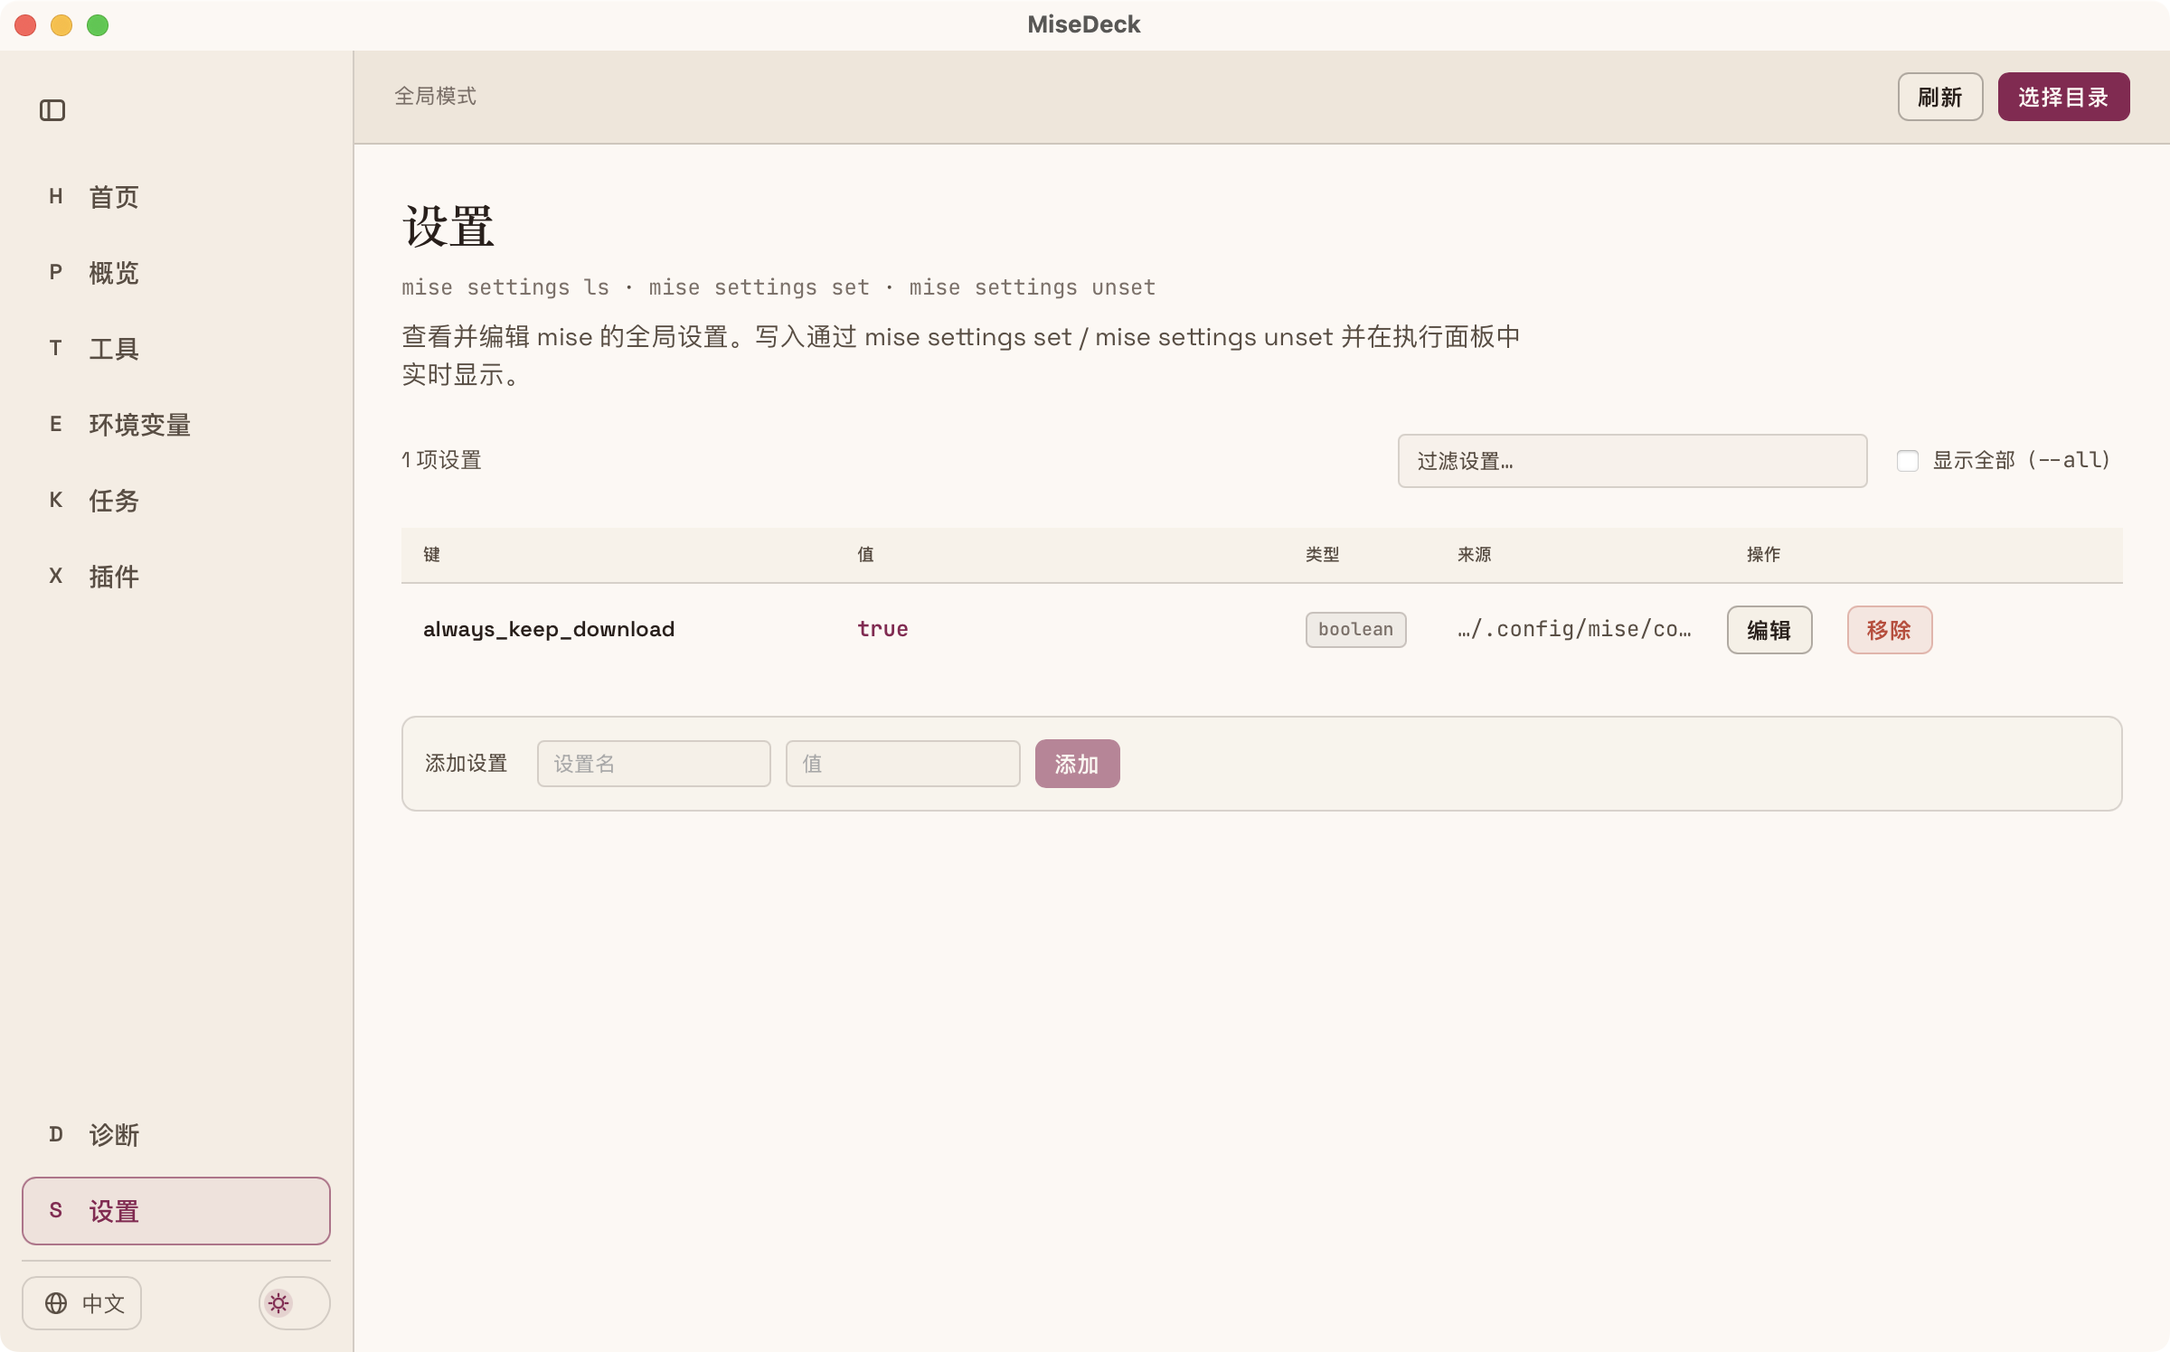
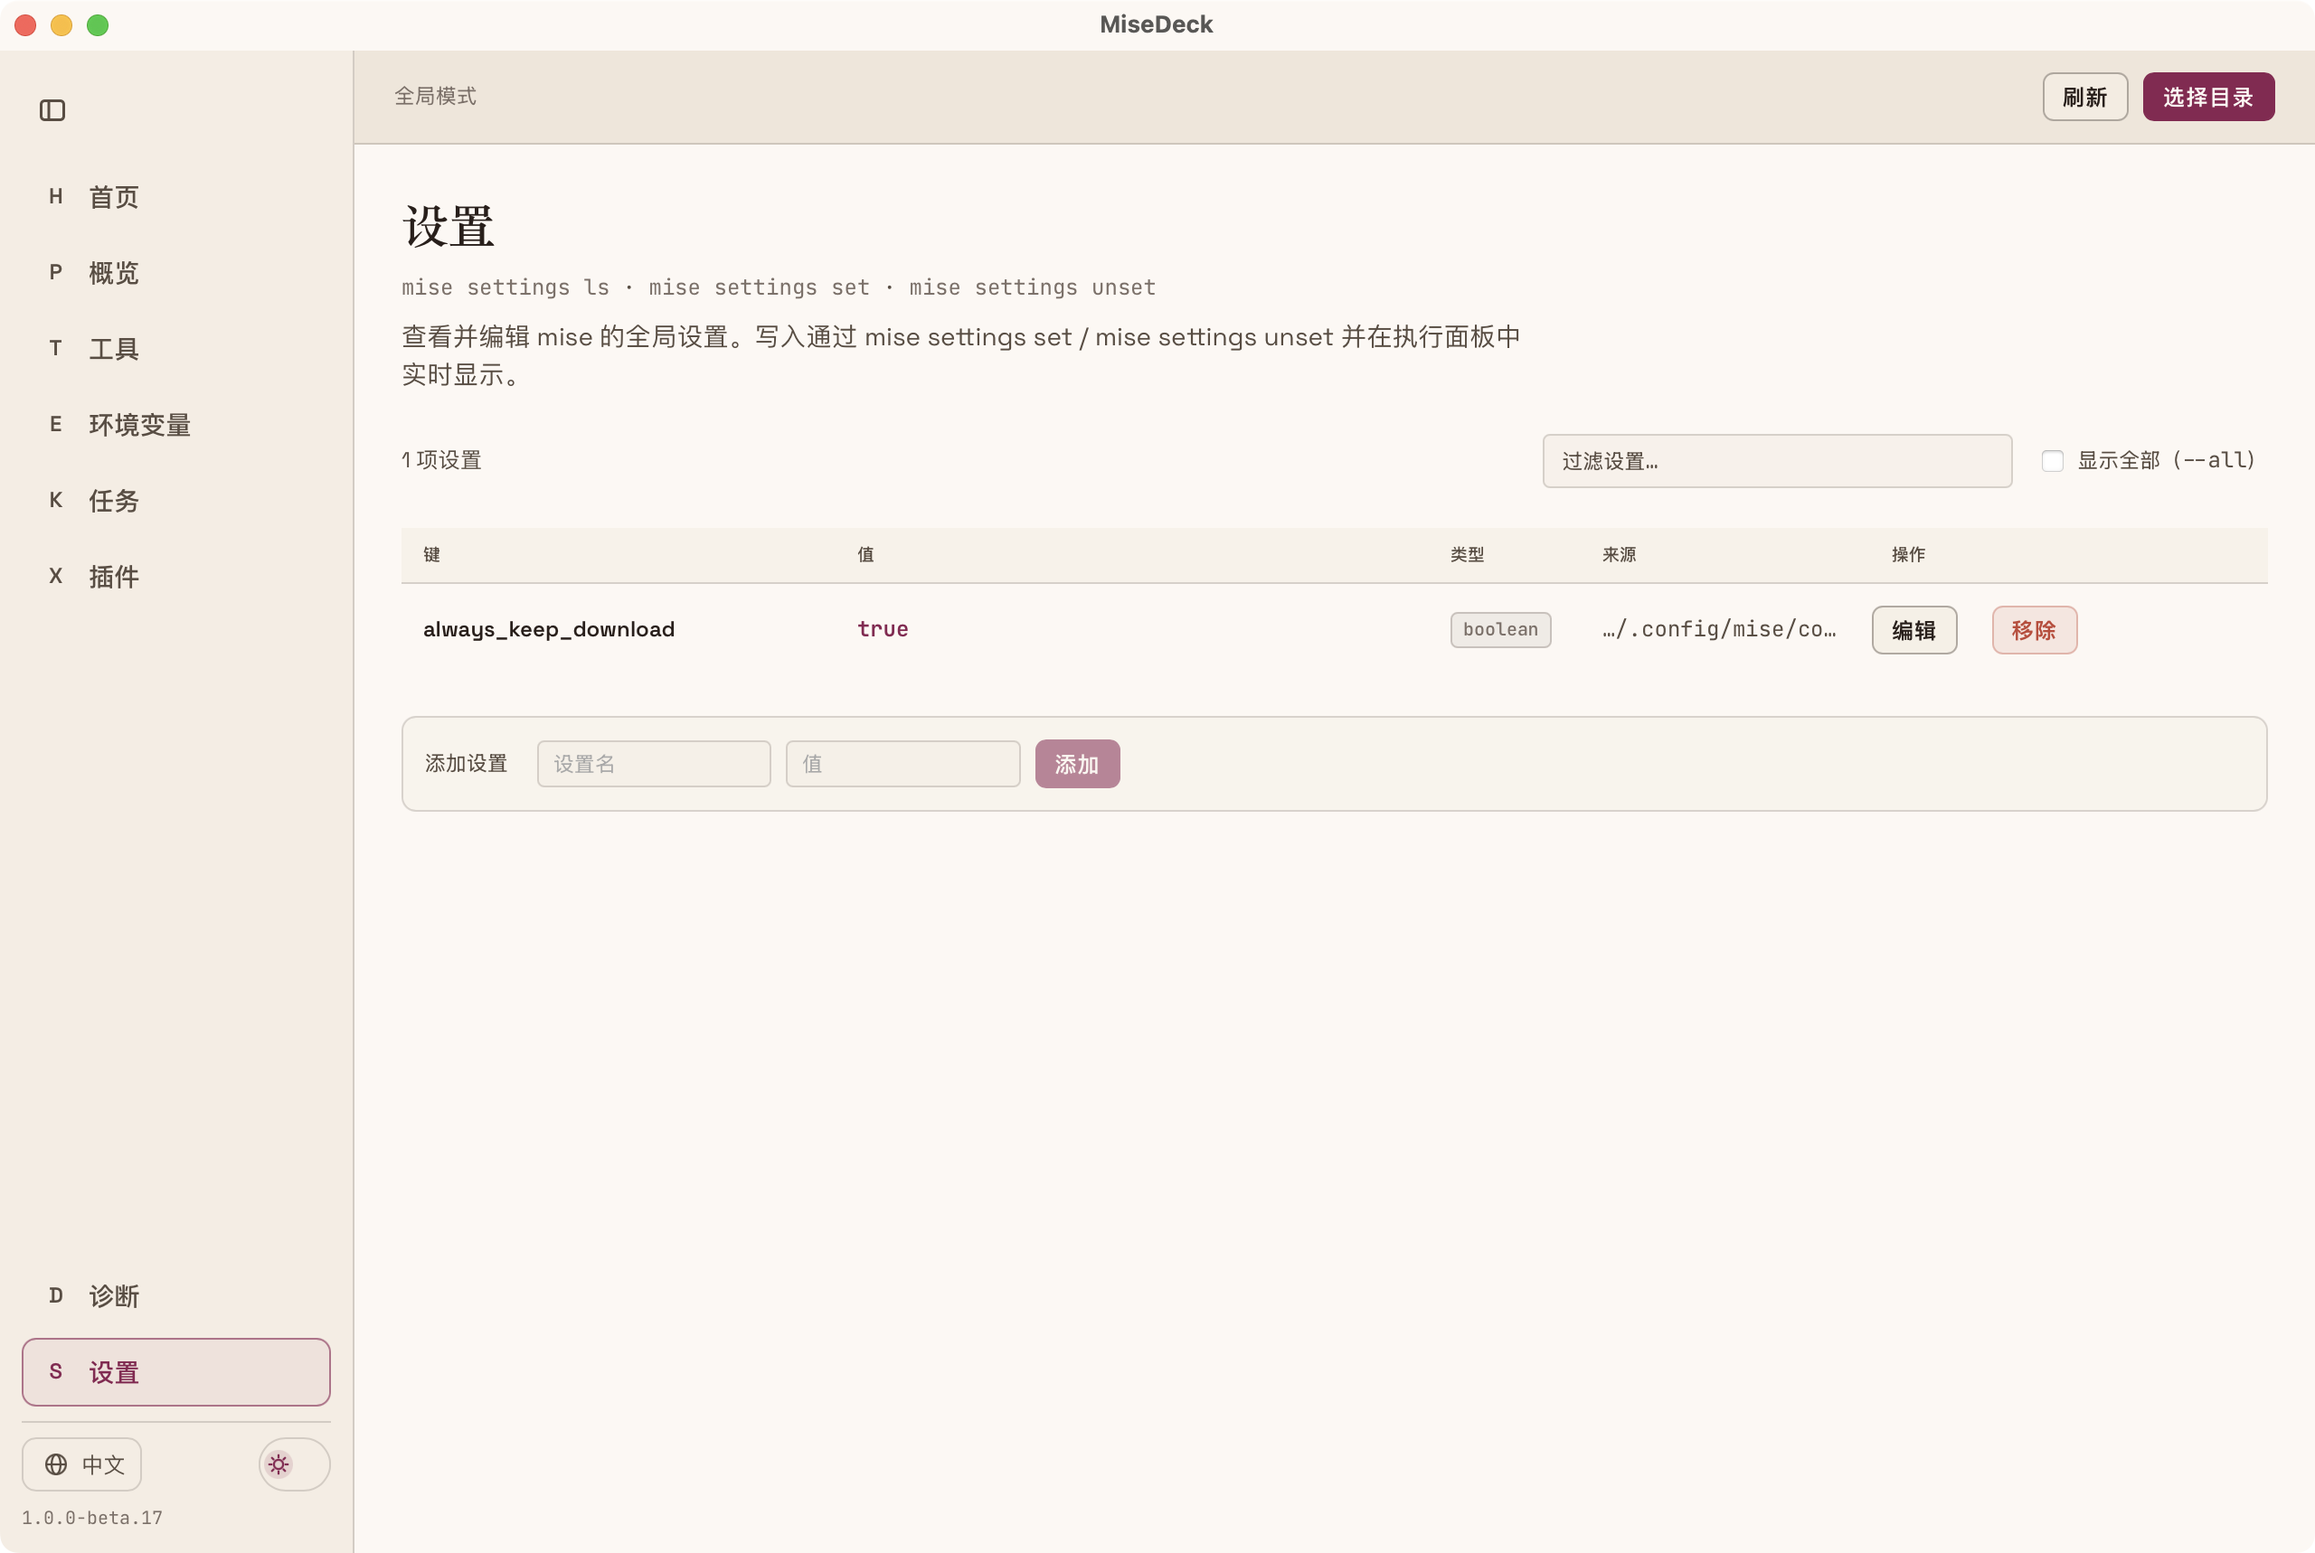
docs(screenshots): re-shoot all eight pages with the bundled fonts
The images under docs/screenshots/ were last regenerated before #241, so
every README screenshot still rendered in fallback system fonts. They are
all re-captured here from a 1.0.0-beta.17 build.

All eight pages now have a pair: Home, Overview, Tools, Env, Tasks,
Plugins, Doctor, Settings. The old `overview-*` pair is renamed to
`home-*` — the name collided with the Overview page, which is /preview.

Captured window-maximised (2560x1718 @2x) from a clean login-shell PATH,
so the environment shown on the Overview and Doctor pages is the one a
user actually gets, not an inherited shell's.

diff --git a/README.md b/README.md
@@ -138,9 +138,13 @@ Bundles land in `src-tauri/target/release/bundle/` — `dmg/` and `macos/` on ma
 
 | English | 简体中文 |
 | --- | --- |
+| ![Home](./docs/screenshots/home-en.png) | ![首页](./docs/screenshots/home-zh-CN.png) |
+| ![Overview](./docs/screenshots/preview-en.png) | ![概览](./docs/screenshots/preview-zh-CN.png) |
 | ![Tools](./docs/screenshots/tools-en.png) | ![工具](./docs/screenshots/tools-zh-CN.png) |
-| ![Directory overview](./docs/screenshots/overview-en.png) | ![目录概览](./docs/screenshots/overview-zh-CN.png) |
 | ![Env](./docs/screenshots/env-en.png) | ![环境变量](./docs/screenshots/env-zh-CN.png) |
+| ![Tasks](./docs/screenshots/tasks-en.png) | ![任务](./docs/screenshots/tasks-zh-CN.png) |
+| ![Plugins](./docs/screenshots/plugins-en.png) | ![插件](./docs/screenshots/plugins-zh-CN.png) |
+| ![Doctor](./docs/screenshots/doctor-en.png) | ![诊断](./docs/screenshots/doctor-zh-CN.png) |
 | ![Settings](./docs/screenshots/settings-en.png) | ![设置](./docs/screenshots/settings-zh-CN.png) |
 
 ## Contributing

diff --git a/zh-CN/README.md b/zh-CN/README.md
@@ -138,9 +138,13 @@ npm run tauri build
 
 | English | 简体中文 |
 | --- | --- |
+| ![首页](../docs/screenshots/home-en.png) | ![首页](../docs/screenshots/home-zh-CN.png) |
+| ![概览](../docs/screenshots/preview-en.png) | ![概览](../docs/screenshots/preview-zh-CN.png) |
 | ![工具](../docs/screenshots/tools-en.png) | ![工具](../docs/screenshots/tools-zh-CN.png) |
-| ![目录概览](../docs/screenshots/overview-en.png) | ![目录概览](../docs/screenshots/overview-zh-CN.png) |
 | ![环境变量](../docs/screenshots/env-en.png) | ![环境变量](../docs/screenshots/env-zh-CN.png) |
+| ![任务](../docs/screenshots/tasks-en.png) | ![任务](../docs/screenshots/tasks-zh-CN.png) |
+| ![插件](../docs/screenshots/plugins-en.png) | ![插件](../docs/screenshots/plugins-zh-CN.png) |
+| ![诊断](../docs/screenshots/doctor-en.png) | ![诊断](../docs/screenshots/doctor-zh-CN.png) |
 | ![设置](../docs/screenshots/settings-en.png) | ![设置](../docs/screenshots/settings-zh-CN.png) |
 
 ## 参与贡献
